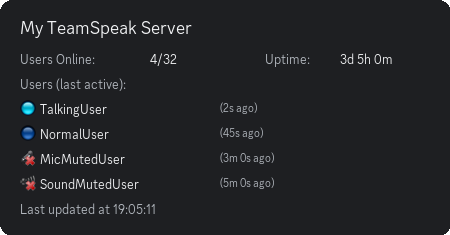
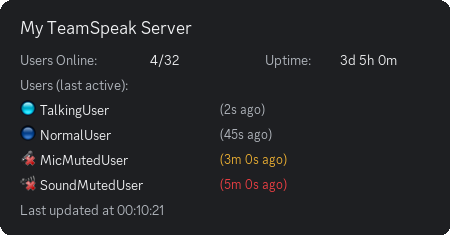
feature: ux to better see whos been active

diff --git a/image.py b/image.py
@@ -3,6 +3,7 @@ from PIL import Image, ImageDraw, ImageFont
 from datetime import datetime
 import io
 
+from config import Config
 from domain import ServerInfo
 
 COLORS = {
@@ -78,11 +79,21 @@ def get_status_icon(client_flag_talking, client_input_muted, client_output_muted
     return ts_logo
 
 
-def generate_status_image(server_info: ServerInfo, tz: str, width=450) -> io.BytesIO:
-    font_title = get_font(18)
-    font_normal = get_font(13)
-    font_small = get_font(11)
+def get_activity_color(idle_time_ms: int, config: Config) -> str:
+    idle_seconds = idle_time_ms // 1000
+    
+    if idle_seconds < config.max_active_seconds:
+        return COLORS["text_secondary"]
+    elif idle_seconds < config.max_away_seconds:
+        return COLORS["yellow"]
+    else:
+        return COLORS["red"]
 
+
+def generate_status_image(server_info: ServerInfo, config: Config, width=450) -> io.BytesIO:
+    font_title = get_font(18)
+    font_normal = get_font(14)
+    font_small = get_font(13)
     base_height = 135
     if not server_info.has_error and server_info.online_users_count > 0:
         user_count = server_info.online_users_count
@@ -146,13 +157,15 @@ def generate_status_image(server_info: ServerInfo, tz: str, width=450) -> io.Byt
                           fill=hex_to_rgb(COLORS["text_primary"]), font=font_normal)
 
                 idle_x = username_x + 180
-                draw.text((idle_x, y_offset), f"({user.idle_time_formatted} {TEXT_AGO_SUFFIX})",
-                          fill=hex_to_rgb(COLORS["text_secondary"]), font=font_small)
+                idle_text = f"({user.idle_time_formatted} {TEXT_AGO_SUFFIX})"
+                idle_color = get_activity_color(user.idle_time, config)
+                draw.text((idle_x, y_offset), idle_text,
+                          fill=hex_to_rgb(idle_color), font=font_small)
                 y_offset += 25
         else:
             y_offset += 25
 
-        draw.text((20, y_offset), f"{TEXT_LAST_UPDATED} {datetime.now(tz=ZoneInfo(tz)).strftime('%H:%M:%S')}",
+        draw.text((20, y_offset), f"{TEXT_LAST_UPDATED} {datetime.now(tz=ZoneInfo(config.timezone)).strftime('%H:%M:%S')}",
                   fill=hex_to_rgb(COLORS["text_secondary"]), font=font_normal)
 
     img = add_rounded_corners(img, radius=12)

diff --git a/bot.py b/bot.py
@@ -47,7 +47,7 @@ class Bot:
 
     def create_image_embed(self, server_info: ServerInfo) -> discord.Embed:
         try:
-            img_buffer = generate_status_image(server_info, self.config.timezone)
+            img_buffer = generate_status_image(server_info, self.config)
             response = cloudinary.uploader.upload(
                 img_buffer, folder="discord-ts3-status", resource_type="image")
 
